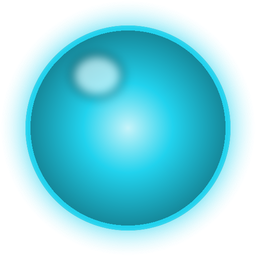
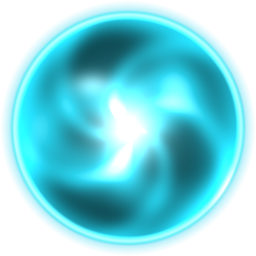
Energy orbs: looping plasma-swirl animation with a hot core
tools/art/orb.py renders a seamless 16-frame loop per orb type (blue, red, gold, purple); each falling orb
plays it from its own random phase (Ball.render, Fx.orbFrames). Counter icons use a static frame of the same
orb. Animation is driven by Fx.time(), so it pauses with the game.

diff --git a/tools/art/orb.py b/tools/art/orb.py
@@ -1,0 +1,91 @@
+"""Energy orbs: a looping plasma-swirl animation for the falling orbs, and matching static counter icons.
+
+Run from the repo root:  python3 tools/art/orb.py
+- res/fx/orb_blue|red|gold|purple.png   16-frame loop, each frame 20x20 logical px, laid out in a row
+- res/shapes/blueCounter|redCounter|lifeCounter.png   static frame of the same orb (64x64 logical)
+Every animated parameter turns a whole number of cycles per loop, so the loop is seamless.
+"""
+import os, sys
+import numpy as np
+from PIL import Image
+
+sys.path.insert(0, os.path.dirname(__file__))
+import neon as N
+
+FRAMES = 16
+CORE = 0.9  # orb radius as a fraction of the frame half-size (the rest is glow)
+
+
+def smooth(e0, e1, x):
+    t = np.clip((x - e0) / (e1 - e0), 0, 1)
+    return t * t * (3 - 2 * t)
+
+
+def orb_frame(n, col, p):
+    yy, xx = np.mgrid[0:n, 0:n].astype(np.float32)
+    x = (xx - (n - 1) / 2) / (n / 2)
+    y = (yy - (n - 1) / 2) / (n / 2)
+    r = np.hypot(x, y) / CORE
+    th = np.arctan2(y, x)
+    tint = np.array(col, dtype=np.float32) / 255.0
+    light = tint + (1 - tint) * 0.72
+    TAU = 2 * np.pi
+
+    # flowing plasma: three spiral arm layers turning at different whole-number speeds
+    a1 = 0.5 + 0.5 * np.sin(2 * th - 6.0 * r + TAU * p)
+    a2 = 0.5 + 0.5 * np.sin(3 * th + 5.0 * r - TAU * 2 * p + 0.8)
+    a3 = 0.5 + 0.5 * np.sin(5 * th - 9.0 * r + TAU * 3 * p + 1.7)
+    plasma = 0.55 * a1 ** 2 + 0.45 * a2 ** 2 + 0.35 * a3 ** 3
+    plasma = 0.30 + 0.85 * plasma  # keep the whole ball lit; the swirl rides on top
+    plasma *= 1.0 - 0.25 * smooth(0.2, 1.0, r)
+
+    # deep tinted body, bands that run from the pure color up to a light tint only where they are strongest
+    pl = np.clip(plasma, 0, 1.2)[..., None]
+    hot = np.clip((plasma - 0.85) / 0.45, 0, 1)[..., None]
+    body = tint[None, None, :] * 0.10 + (tint[None, None, :] * 1.15) * pl * 0.85 * (1 - hot) + (light[None, None, :] * 0.95) * hot
+    core = np.exp(-(r / 0.25) ** 2) * (0.88 + 0.12 * np.sin(TAU * 2 * p))
+    core_halo = np.exp(-(r / 0.5) ** 2) * 0.22
+    rim = smooth(0.7, 1.0, r) ** 1.6
+    edge = smooth(0.93, 0.985, r) * (1 - smooth(0.985, 1.02, r))
+    spec = np.exp(-(((x + 0.28) / 0.2) ** 2 + ((y + 0.34) / 0.12) ** 2) * 1.6) * 0.4 * (r < 1)
+
+    rgb_in = body + core_halo[..., None] * light[None, None, :] + core[..., None] * 1.0 + rim[..., None] * tint[None, None, :] * 0.5 + edge[..., None] * light[None, None, :] * 0.7
+    rgb_in = rgb_in + spec[..., None]
+    rgb_in = np.clip(rgb_in, 0, 1)
+
+    inside = 1 - smooth(0.985, 1.03, r)
+    halo = np.exp(-np.maximum(r - 1, 0) / 0.22) * 0.75 * (1 - inside)
+    halo *= np.clip((1.0 - r * CORE) / 0.12 + 0.0, 0, 1) if False else np.clip((1.0 - r * CORE) / 0.14, 0, 1)  # reach exactly zero at the frame edge
+    halo *= (0.9 + 0.1 * np.sin(TAU * 2 * p))
+    rgb = rgb_in * inside[..., None] + tint[None, None, :] * (1 - inside[..., None])
+    a = np.clip(inside + halo, 0, 1)
+    out = np.dstack([rgb * 255, a * 255]).astype(np.uint8)
+    return Image.fromarray(out)
+
+
+def render(n_out, col, p, ss=3):
+    big = orb_frame(n_out * ss, col, p)
+    return big.resize((n_out, n_out), Image.LANCZOS)
+
+
+def build():
+    K = 4
+    n = 20 * K
+    for name, col in (('blue', N.CYAN), ('red', N.RED), ('gold', N.GOLD), ('purple', N.PURPLE)):
+        sheet = Image.new('RGBA', (n * FRAMES, n), (0, 0, 0, 0))
+        for f in range(FRAMES):
+            sheet.paste(render(n, col, f / FRAMES), (f * n, 0))
+        path = os.path.join(N.OUT, 'fx', 'orb_%s.png' % name)
+        os.makedirs(os.path.dirname(path), exist_ok=True)
+        sheet.save(path)
+        N.logical_sizes['res/fx/orb_%s.png' % name] = (20 * FRAMES, 20)
+    for name, col in (('blueCounter', N.CYAN), ('redCounter', N.RED), ('lifeCounter', N.GOLD)):
+        im = render(64 * K, col, 0.0)
+        im.save(os.path.join(N.OUT, 'shapes', name + '.png'))
+        N.logical_sizes['res/shapes/%s.png' % name] = (64, 64)
+
+
+if __name__ == '__main__':
+    build()
+    N.write_manifest()
+    print('done')

diff --git a/core/src/com/spaceship/handlers/Fx.java b/core/src/com/spaceship/handlers/Fx.java
@@ -9,7 +9,8 @@ import com.badlogic.gdx.math.MathUtils;
 /** Additive-blended glow helpers for the orb tails and engine plumes (textures in res/fx). */
 public class Fx {
 	public static final String[] ASSETS = { "res/fx/tail.png", "res/fx/core.png", "res/fx/plume.png", "res/fx/plume_core.png",
-			"res/fx/spark_blue.png", "res/fx/spark_red.png", "res/fx/spark_gold.png", "res/fx/spark_purple.png", "res/fx/spark_white.png", "res/fx/bolt.png" };
+			"res/fx/spark_blue.png", "res/fx/spark_red.png", "res/fx/spark_gold.png", "res/fx/spark_purple.png", "res/fx/spark_white.png", "res/fx/bolt.png",
+			"res/fx/orb_blue.png", "res/fx/orb_red.png", "res/fx/orb_gold.png", "res/fx/orb_purple.png" };
 
 	/** Flicker, surges, embers and sparkles on the engine plumes and orb tails. Off = steady glow. */
 	public static final boolean LIVELY = true;
@@ -23,6 +24,8 @@ public class Fx {
 	private static Texture tail, core, plume, plumeCore;
 	private static Texture[] sparks = new Texture[4];
 	private static Texture dot, bolt;
+	public static final int ORB_FRAMES = 16;
+	private static com.badlogic.gdx.graphics.g2d.TextureRegion[][] orbFrames;
 
 	// small additive embers shared by the ship engines and the orb tails
 	private static final int MAX = 400;
@@ -50,6 +53,10 @@ public class Fx {
 		sparks[SPARK_PURPLE] = am.get("res/fx/spark_purple.png", Texture.class);
 		dot = am.get("res/fx/spark_white.png", Texture.class);
 		bolt = am.get("res/fx/bolt.png", Texture.class);
+		orbFrames = new com.badlogic.gdx.graphics.g2d.TextureRegion[4][];
+		String[] orbs = { "blue", "red", "gold", "purple" };
+		for (int i = 0; i < 4; i++)
+			orbFrames[i] = com.badlogic.gdx.graphics.g2d.TextureRegion.split(am.get("res/fx/orb_" + orbs[i] + ".png", Texture.class), 20, 20)[0];
 	}
 
 	public static Texture spark(int kind) {
@@ -139,5 +146,10 @@ public class Fx {
 		float deg = MathUtils.atan2(dy, dx) * MathUtils.radiansToDegrees;
 		sb.setColor(r, g, b, a);
 		sb.draw(bolt, x0, y0 - th / 2, 0, th / 2, len + th * 0.35f, th, 1f, 1f, deg, 0, 0, bolt.getWidth(), bolt.getHeight(), false, false);
+	}
+
+	/** Looping energy animation frames for an orb: 0 = blue, 1 = red, 2 = gold (energy), 3 = purple (item). */
+	public static com.badlogic.gdx.graphics.g2d.TextureRegion[] orbFrames(int kind) {
+		return orbFrames[kind];
 	}
 }

diff --git a/core/src/com/spaceship/objects/Ball.java b/core/src/com/spaceship/objects/Ball.java
@@ -32,6 +32,7 @@ public class Ball extends GameObject {
 	private int angle;
 	private int angle2;
 	private final float phase = MathUtils.random(0f, 6.28f);
+	private final float loopOffset = MathUtils.random();
 	private int type;
 	private boolean velocityChanged;
 	private Texture texB; 
@@ -161,6 +162,12 @@ public class Ball extends GameObject {
 	public void render(SpriteBatch sb) {	
 		ball.setPosition(this.getPosition().x, this.getPosition().y);
 		texSelected.setPosition(this.getPosition().x - texSelected.getWidth()/2, this.getPosition().y - texSelected.getHeight()/2);
+		// energy swirl: every orb loops through the same frames, starting at its own phase
+		int kind = type == B_BLUE ? 0 : type == B_RED ? 1 : type == B_LIFE ? 2 : 3;
+		com.badlogic.gdx.graphics.g2d.TextureRegion[] frames = Fx.orbFrames(kind);
+		int fi = (int) ((Fx.time()*1.3f + loopOffset)*Fx.ORB_FRAMES) % Fx.ORB_FRAMES;
+		com.badlogic.gdx.graphics.g2d.TextureRegion r = frames[fi];
+		texSelected.setRegion(r);
 		texSelected.draw(sb);
 	}
 	
